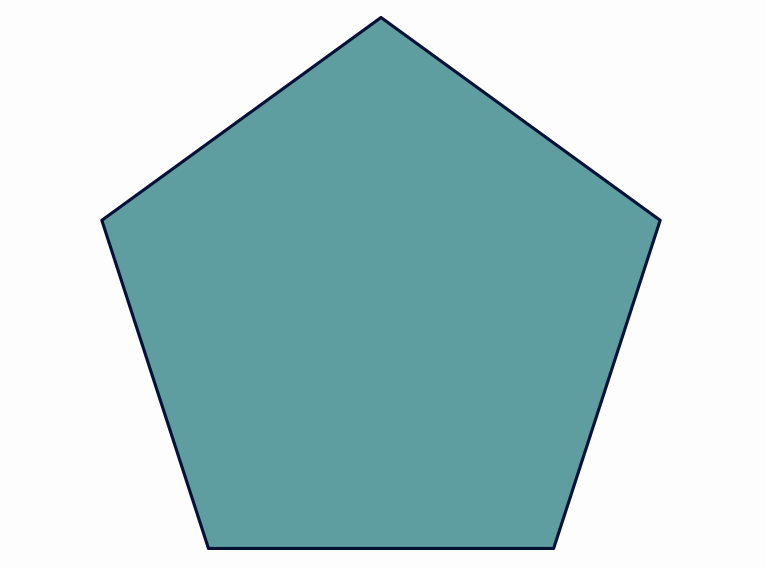
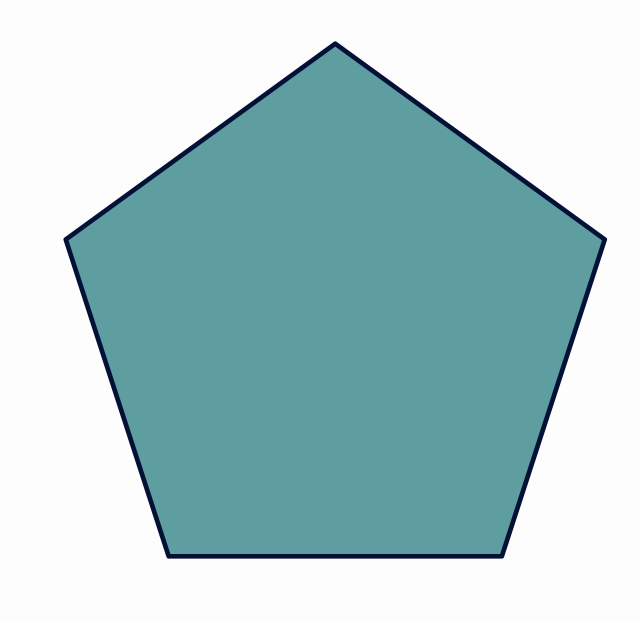
Signed-off-by: David Gutiérrez Rubio <davidgutierrezrubio@gmail.com>

diff --git a/manual/04_Transforming/TransformingObjects.md b/manual/04_Transforming/TransformingObjects.md
@@ -55,10 +55,10 @@ Note that the `.moveTo(p)`method is equivalent to `.stackTo(p, Anchor.Type.CENTE
 The `stackTo` command allows to easily generate aligned objects:
 
 ``` java
-Shape previousPol = Shape.regularPolygon(3).fillColor(JMColor.random()).thickness(3);//First polygon, with random fill color
+Shape previousPol = Shape.regularPolygon(3).fillColor(JMColor.random()).thickness(8);//First polygon, with random fill color
 add(previousPol);
 for (int n = 4; n < 10; n++) {
-    Shape pol = Shape.regularPolygon(n).fillColor(JMColor.random()).thickness(3).stackTo(previousPol, Anchor.Type.RIGHT);
+    Shape pol = Shape.regularPolygon(n).fillColor(JMColor.random()).thickness(8).stackTo(previousPol, Anchor.Type.RIGHT);
     add(pol);
     previousPol = pol;//New polygon becomes previous in the next iteration
 }
@@ -75,8 +75,8 @@ You can change the `Anchor` to other values to see how these anchors work. Apart
 By default, the `stackTo` method takes appropiate origin anchor point to align with the destination anchor point. For example `stackTo(obj,Anchor.Type.RIGHT)` will move the object so that its `LEFT` anchor (the reverse of `RIGHT`) matches the `RIGHT` anchor of the destination object. You can specify the origin and destiny anchors too. For example, this code will put a square so that its center matches the right side of a circle:
 
 ```java
-Shape sq = Shape.square().scale(.5, .5).fillColor("orange").fillAlpha(.5).thickness(3);
-Shape c = Shape.circle().scale(.5).fillColor("yellow").fillAlpha(.5).thickness(3);
+Shape sq = Shape.square().scale(.5, .5).fillColor("orange").fillAlpha(.5).thickness(8);
+Shape c = Shape.circle().scale(.5).fillColor("yellow").fillAlpha(.5).thickness(8);
 add(c, sq);
 sq.stackTo(Anchor.Type.CENTER, c, Anchor.Type.RIGHT, 0);//Center of sq goes to RIGHT of c
 waitSeconds(3);
@@ -105,15 +105,17 @@ There is shortcut method if you want to simply put the object at the center scre
 The `MathObject`class has the method `align` which aligns the object with another one, using one of the aligns in the enum `Align: LEFT, RIGHT, UPPER, LOWER, HCENTER, VCENTER`.
 
 ```java
-Line floor=Line.XAxis();
+Line floor = Line.XAxis();
 add(floor);
 for (int n = 4; n < 10; n++) {
-    Shape pol = Shape.regularPolygon(n).center().shift(Point.random().v).scale(Math.random()*.5);
-    Shape pol2=pol.copy() //Creates a copy of the polygon...
+    Shape pol = Shape.regularPolygon(n) //Creates a regular polygon with n sides...
+        .moveTo(Point.random()) //Move its center to a random point on current view...
+        .scale(Math.random() * .5);//And scale it randomly between 0 and 0.5
+    Shape pol2 = pol.copy() //Creates a copy of the polygon...
         .fillColor(JMColor.random()) //fill it with a random color...
-        .thickness(3) //With this thicknes...
-        .align(floor, MathObject.Align.LOWER);//And align bottom of the object with floor
-    add(pol,pol2);
+        .thickness(6) //With this thickness...
+        .align(floor, MathObject.Align.LOWER);//And align the bottom of the object with object floor
+    add(pol, pol2);
 }
 camera.adjustToAllObjects();//Everyone should appear in the photo
 waitSeconds(5);//Smile!
@@ -128,10 +130,29 @@ waitSeconds(5);//Smile!
 All `MathObject` instances can be scaled with the `scale` command. Scaling can be done from a given scale center or by default, the center of the object  bounding box.
 
 ``` java
-add(Shape.circle().shift(-1, 0).scale(.5, 1));//x-scale and y-scale around center
-add(Shape.circle().shift(0, 1).scale(Point.at(0, 0), 1.3, .2));//x-scale and y-scale around (0,0)
-add(Shape.square().shift(1, 0).scale(.3)); //Uniform scale around center
-waitSeconds(5);
+@Override
+public void setupSketch() {
+    config.parseFile("#preview.xml");
+    config.parseFile("#light.xml");
+}
+
+@Override
+public void runSketch() throws Exception {
+    Shape s1=Shape.circle()//A circle...
+        .style("solidorange")//Style solidorange (included in #light.xml)
+        .shift(-1, 0) //Shifted 1 unit to the left
+        .scale(.5, 1);//x-scale and y-scale around center
+    Shape s2=Shape.regularPolygon(5)//A regular pentagon...
+        .style("solidred")//Style solidred (included in #light.xml)
+        .shift(0, 1)//Shifted 1 unit up
+        .scale(Point.at(0, 0), 1.3, .2);//x-scale and y-scale around (0,0)
+    Shape s3=Shape.square() //A square...
+        .style("solidblue")//Style solidblue (included in #light.xml)
+        .shift(1, 0)//shifted 1 unit to the left
+        .scale(.3); //Uniform scale around center
+    add(s1,s2,s3);
+    waitSeconds(5);
+}
 ```
 
 produces the result:
@@ -144,12 +165,13 @@ The `rotate` command rotates the object around a given center (or the center of 
 For example:
 
 ``` java
-Shape ellipse=Shape.circle().scale(.5,1);//Creates an ellipse
-Point rotationCenter=Point.at(.5,0);
-for (int n = 0; n < 180; n+=20) {
-    add(ellipse.copy().rotate(rotationCenter,n*DEGREES));
-}
-waitSeconds(5);
+   Shape ellipse = Shape.circle().scale(.5, 1);//Creates an ellipse
+        ellipse.fillColor("violet").fillAlpha(.25);//fill violet 25% opacity
+        Point rotationCenter = Point.at(.5, 0);
+        for (int n = 0; n < 180; n += 20) {
+            add(ellipse.copy().rotate(rotationCenter, n * DEGREES));
+        }
+        waitSeconds(5);
 ```
 
 Gives this spirograh-like picture:
@@ -230,7 +252,7 @@ waitSeconds(5);
 There is also a more general way to define an affine transform using `createAffineTransformation(Point A, Point B, Point C, Point D, Point E, Point F, double lambda)`. It returns the (only) affine transform that maps the points (A,B,C) into (D,E,F), with the `lambda` interpolation parameter as in the previous methods. Here’s an example:
 
 ``` java
-Shape sq = Shape.square().drawColor("brown").thickness(3);
+Shape sq = Shape.square().drawColor("brown").thickness(6);
 Shape circ = Shape.circle().scale(.5).shift(.5, .5).fillColor("orange").fillAlpha(.1);//A circle inscribed into the square
 //We create the points with layer(1) so that the draw over the square and circles (by default in layer 0)
 Point A = Point.at(0, 0).drawColor("darkblue").layer(1); 
@@ -265,7 +287,7 @@ The following code shows all current layouts, with a set of 10 increasing square
 MathObjectGroup group = MathObjectGroup.make();
 double h = 0;//This will hold the total height of the squares, to properly zoom out the camera later
 for (int n = 0; n < 10; n++) {
-    Shape square = Shape.square().scale(.2 + .1 * n).fillColor(JMColor.random()).fillAlpha(.5).thickness(3);
+    Shape square = Shape.square().scale(.2 + .1 * n).fillColor(JMColor.random()).fillAlpha(.5).thickness(6);
     h += square.getHeight();
     group.add(square);
 }
@@ -294,13 +316,13 @@ The `BoxLayout` allocates the objects in a matrix form:
 MathObjectGroup gr = MathObjectGroup.make();
 int num = 16;
 for (int n = 0; n < num; n++) {
-    MathObject sq = Shape.square().scale(.25).fillColor("violet").fillAlpha(1 - 1. * (n+1) / num).thickness(3);
+    MathObject sq = Shape.square().scale(.25).fillColor("violet").fillAlpha(1 - 1. * (n+1) / num).thickness(6);
     LaTeXMathObject t = LaTeXMathObject.make("" + n);
     t.stackTo(sq, Anchor.Type.CENTER).layer(1);
     gr.add(MathObjectGroup.make(sq, t));//Each object of the group is itself a group with 2 elements
 }
 Point refPoint = Point.origin(); //The reference point to locate the box
-add(refPoint.thickness(2).drawColor(JMColor.RED).layer(1));
+add(refPoint.thickness(40).drawColor(JMColor.RED).layer(1));
 BoxLayout layout = new BoxLayout(refPoint, 4, BoxLayout.Direction.RIGHT_UP, .1, .1);//This is where the magic happens
 add(gr.setLayout(layout));
 camera.zoomToAllObjects();
@@ -401,7 +423,7 @@ for (int n = 0; n < num; n++) {//Create random bars
 }
 double width = 2;
 final Point corner = Point.relAt(.1, .9);
-add(corner.thickness(2).drawColor("red").layer(1));
+add(corner.thickness(40).drawColor("red").layer(1));
 add(Line.YAxis().shift(corner.v.add(Vec.to(width, 0))));//Draw vertical lines to mark the margins
 add(Line.YAxis().shift(corner.v.add(Vec.to(0, 0))));
 FlowLayout flayout = new FlowLayout(corner, width, AbstractBoxLayout.Direction.RIGHT_DOWN, 0,0);
@@ -429,14 +451,14 @@ We illustrate this with an example. Here we use as inner layout a `BoxLayout` an
 MathObjectGroup gr = MathObjectGroup.make();
 int num = 54;
 for (int n = 0; n < num; n++) {//Creates a group with 54 numbered squares
-    MathObject sq = Shape.square().scale(.25).fillColor("violet").fillAlpha(1 - 1. * (n + 1) / num).thickness(3);
+    MathObject sq = Shape.square().scale(.25).fillColor("violet").fillAlpha(1 - 1. * (n + 1) / num).thickness(6);
     LaTeXMathObject t = LaTeXMathObject.make("" + n);
     t.stackTo(sq, Anchor.Type.CENTER).layer(1);
     gr.add(MathObjectGroup.make(sq, t));//Each object of the group is itself a group with 2 elements
 }
 
 Point refPoint = Point.origin(); //The reference point to locate the outer layout
-add(refPoint.thickness(2).drawColor(JMColor.RED).layer(1));//add this point so we can see it clearly
+add(refPoint.thickness(40).drawColor(JMColor.RED).layer(1));//add this point so we can see it clearly
 
 GroupLayout innerLayout = new BoxLayout(refPoint, 3, BoxLayout.Direction.RIGHT_DOWN, 0, 0);
 GroupLayout outerLayout = new PascalLayout(refPoint, .1, .1);

diff --git a/manual/03_Styling/Styling.md b/manual/03_Styling/Styling.md
@@ -14,7 +14,7 @@ Each object has 2 colors: the draw color (changed with `.drawColor`), used drawi
 Shape r = Shape.regularPolygon(5)
 	.fillColor(JMColor.parse("CADETBLUE"))
     .drawColor(JMColor.parse("#041137"))
-    .thickness(5);
+    .thickness(15);
 ```
 When added to the scene, it will show something like this:
 
@@ -85,7 +85,7 @@ axes.generatePrimaryXTicks(-2, 2, .5)
     .drawColor(axesGradient);
 
 FunctionGraph fg = FunctionGraph.make(x -> Math.sin(x), -2, 2);
-fg.drawColor(functionGradient).thickness(4);
+fg.drawColor(functionGradient).thickness(10);
 
 add(axes, fg);
 waitSeconds(3);
@@ -262,6 +262,11 @@ You can have several config files with different, independent aspects. This is t
             <fillColor>#00000000</fillColor>
             <thickness>4</thickness>
         </style>
+          <style name="dotdefault">
+            <drawColor>black</drawColor>
+            <fillColor>#00000000</fillColor>
+            <thickness>30</thickness>
+        </style>  
         <style name="latexdefault">
             <drawColor>black</drawColor>
             <fillColor>black</fillColor>
@@ -287,6 +292,37 @@ You can have several config files with different, independent aspects. This is t
             <fillColor>orange</fillColor>
             <thickness>8</thickness>
         </style>
+            <style name="1">
+            <drawColor>#07004D</drawColor>
+            <thickness>30</thickness>
+            <dotStyle>circle</dotStyle>
+        </style>
+        <style name="2">
+            <drawColor>#BF2500</drawColor>
+            <thickness>30</thickness>
+            <dotStyle>cross</dotStyle>
+        </style>
+        <style name="3">
+            <drawColor>#5D2E8C</drawColor>
+            <thickness>30</thickness>
+            <dotStyle>plus</dotStyle>
+        </style>
+          <style name="fn1">
+            <drawColor>#0F4C5C</drawColor>
+            <fillColor>none</fillColor>
+            <thickness>8</thickness>
+        </style> 
+         <style name="fn2">
+            <drawColor>#9A031E</drawColor>
+            <fillColor>none</fillColor>
+            <thickness>8</thickness>
+        </style> 
+         <style name="fn3">
+            <drawColor>#5F0F40</drawColor>
+            <fillColor>none</fillColor>
+            <dashStyle>DASHED</dashStyle>
+            <thickness>4</thickness>
+        </style> 
     </styles>
 </JMathAnimConfig>
 ```

diff --git a/manual/02_BasicShapes/BasicShapes.md b/manual/02_BasicShapes/BasicShapes.md
@@ -142,16 +142,16 @@ By default, LaTeX formulas are placed at the center of the screen.
 This class represents an infinite line. Of course, the "trick" is that in every frame it draws the visible part. Several static builder are implemented:
 
 ```java
-Point A=Point.at(1, 1);
-Point B=Point.at(0,1);
-Vec v=Vec.to(1,.2);
-Line line1=Line.make(A, B).drawColor(JMColor.RED).thickness(3);//Line that pass through A and B, color red
-Line line2=Line.make(A, v).drawColor(JMColor.BLUE).thickness(2);//Line that pass through A and A+v, color blue
-Line line3=Line.XAxis().drawColor("darkorange");//Line y=0, color dark orange
-Line line4=Line.YAxis().drawColor("darkmagenta");//Line x=0, color dark magenta
-Line line5=Line.XYBisector().drawColor("darkgreen");//Line y=x, color dark green
-add(line1,line2,line3,line4,line5);//Add everything to the scene
-play.shift(5, -1,-1.5, A);//Animates the point A moving (-1,-1.5) for 5 seconds
+Point A = Point.at(1, 1);
+Point B = Point.at(0, 1);
+Vec v = Vec.to(1, .2);
+Line line1 = Line.make(A, B).drawColor(JMColor.RED).thickness(6);//Line that pass through A and B, color red
+Line line2 = Line.make(A, v).drawColor(JMColor.BLUE).thickness(10);//Line that pass through A and A+v, color blue
+Line line3 = Line.XAxis().drawColor("darkorange");//Line y=0, color dark orange
+Line line4 = Line.YAxis().drawColor("darkmagenta");//Line x=0, color dark magenta
+Line line5 = Line.XYBisector().drawColor("darkgreen");//Line y=x, color dark green
+add(line1, line2, line3, line4, line5);//Add everything to the scene
+play.shift(5, -1, -1.5, A);//Animates the point A moving (-1,-1.5) for 5 seconds
 waitSeconds(3);
 ```
 
